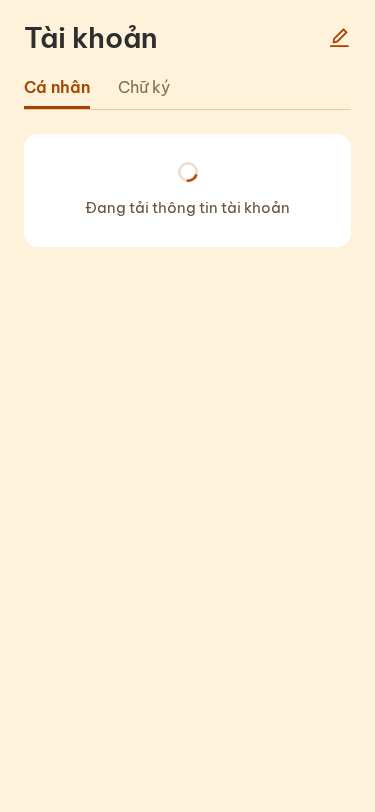
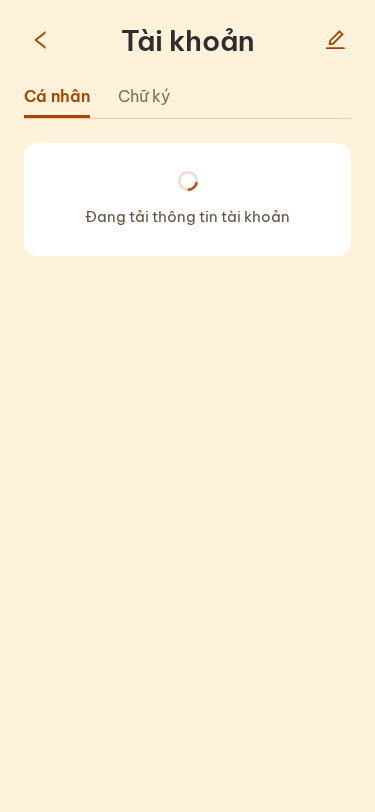
feat: add UC-04 header back navigation

Changed region(s): [[0.0587, 0.0924, 0.9387, 0.3387], [0.0587, 0.0308, 0.6747, 0.0616], [0.88, 0.0308, 0.9387, 0.0616]]

diff --git a/src/screens/AccountScreen.tsx b/src/screens/AccountScreen.tsx
@@ -21,7 +21,7 @@ function mockPayload(): AccountPayload {
   return { profile: { displayName: "Nguyễn Văn A", email: "nguyen.van.a.renter@example.com", phone: "0901234567", avatar: null }, rentals };
 }
 
-export function AccountScreen({ sessionKey, onEditProfile, onChangePassword, onSignOut }: { sessionKey: string; onEditProfile: () => void; onChangePassword: () => void; onSignOut: () => void }) {
+export function AccountScreen({ sessionKey, onBack, onEditProfile, onChangePassword, onSignOut }: { sessionKey: string; onBack: () => void; onEditProfile: () => void; onChangePassword: () => void; onSignOut: () => void }) {
   const [state, setState] = useState<AccountState>("loading");
   const [payload, setPayload] = useState<AccountPayload | null>(null);
   const scenario = accountReviewScenario();
@@ -42,7 +42,7 @@ export function AccountScreen({ sessionKey, onEditProfile, onChangePassword, onS
   const { width } = useWindowDimensions();
 
   return <SafeAreaView edges={["top", "left", "right"]} style={styles.safe}><ScrollView contentContainerStyle={styles.content}>
-    <View style={styles.header}><Text accessibilityRole="header" style={styles.title}>Tài khoản</Text><Pressable accessibilityRole="button" accessibilityLabel="Chỉnh sửa thông tin cá nhân" onPress={onEditProfile}><IconOutline color="#A84300" name="edit" size={24} /></Pressable></View>
+    <View style={styles.header}><HeaderButton accessibilityLabel="Quay lại" icon="left" onPress={onBack} /><Text accessibilityRole="header" style={styles.title}>Tài khoản</Text><HeaderButton accessibilityLabel="Chỉnh sửa thông tin cá nhân" icon="edit" onPress={onEditProfile} /></View>
     <View accessibilityRole="tablist" style={styles.tabs}><Text accessibilityRole="tab" accessibilityState={{ selected: true }} style={styles.activeTab}>Cá nhân</Text><Text accessibilityRole="tab" accessibilityState={{ selected: false }} style={styles.tab}>Chữ ký</Text></View>
     {state === "loading" ? <LoadingCard /> : null}
     {state === "error" ? <ErrorState timeout={scenario === "timeout"} onRetry={load} /> : null}
@@ -73,8 +73,9 @@ function RentalValue({ label, value }: { label: string; value: string }) { retur
 function LoadingCard() { return <View accessibilityLabel="Đang tải thông tin tài khoản" style={styles.stateCard}><ActivityIndicator color={colors.action} /><Text style={styles.stateText}>Đang tải thông tin tài khoản</Text></View>; }
 function ErrorState({ timeout, onRetry }: { timeout: boolean; onRetry: () => void }) { return <View accessibilityRole="alert" style={styles.stateCard}><Text style={styles.stateText}>{timeout ? "Kết nối mất nhiều thời gian hơn dự kiến." : "Chưa thể tải thông tin tài khoản."}</Text><Pressable accessibilityRole="button" onPress={onRetry} style={styles.retry}><Text style={styles.retryText}>Thử lại</Text></Pressable></View>; }
 function SessionState({ onSignOut }: { onSignOut: () => void }) { return <View accessibilityRole="alert" style={styles.stateCard}><Text style={styles.stateText}>Phiên đăng nhập đã hết hạn. Vui lòng đăng nhập lại.</Text><Pressable accessibilityRole="button" onPress={onSignOut} style={styles.retry}><Text style={styles.retryText}>Đăng nhập lại</Text></Pressable></View>; }
+function HeaderButton({ accessibilityLabel, icon, onPress }: { accessibilityLabel: string; icon: ComponentProps<typeof IconOutline>["name"]; onPress: () => void }) { return <Pressable accessibilityRole="button" accessibilityLabel={accessibilityLabel} onPress={onPress} style={({ pressed }) => [styles.headerButton, pressed && styles.headerButtonPressed]}><IconOutline accessible={false} importantForAccessibility="no" color="#A84300" name={icon} size={24} /></Pressable>; }
 function Action({ label, icon, onPress, danger = false }: { label: string; icon: ComponentProps<typeof IconOutline>["name"]; onPress: () => void; danger?: boolean }) { return <Pressable accessibilityRole="button" onPress={onPress} style={styles.action}><IconOutline accessible={false} importantForAccessibility="no" color={danger ? "#B33A3A" : "#A84300"} name={icon} size={21} /><Text style={[styles.actionText, danger && styles.danger]}>{label}</Text></Pressable>; }
 
 const styles = StyleSheet.create({
-  safe: { backgroundColor: "#FFF2DB", flex: 1 }, content: { flexGrow: 1, paddingBottom: 40 }, header: { alignItems: "center", flexDirection: "row", justifyContent: "space-between", paddingHorizontal: 24, paddingTop: 20 }, title: { color: "#2E2E2E", fontFamily: "BeVietnamPro_600SemiBold", fontSize: 28 }, tabs: { borderBottomColor: "#E6CDA8", borderBottomWidth: 1, flexDirection: "row", gap: 28, marginHorizontal: 24, marginTop: 22 }, tab: { color: "#856D51", fontFamily: "BeVietnamPro_400Regular", fontSize: 16, paddingBottom: 12 }, activeTab: { borderBottomColor: "#A84300", borderBottomWidth: 3, color: "#A84300", fontFamily: "BeVietnamPro_600SemiBold", fontSize: 16, paddingBottom: 9 }, profileCard: { alignItems: "center", backgroundColor: "#FFFFFF", borderRadius: radius.md, flexDirection: "row", marginHorizontal: 24, marginTop: 24, padding: 20 }, avatar: { alignItems: "center", backgroundColor: "#FFFFFF", borderColor: "#F0DDBF", borderRadius: 42, borderWidth: 1, height: 84, justifyContent: "center", overflow: "hidden", width: 84 }, profileText: { flex: 1, marginLeft: 16 }, name: { color: "#2E2E2E", fontFamily: "BeVietnamPro_600SemiBold", fontSize: 18 }, contact: { color: "#675440", fontFamily: "BeVietnamPro_400Regular", fontSize: 14, marginTop: 7 }, rentals: { marginTop: 26 }, sectionTitle: { color: "#2E2E2E", fontFamily: "BeVietnamPro_600SemiBold", fontSize: 18, marginBottom: 12, marginHorizontal: 24 }, rentalCard: { backgroundColor: "#FFFFFF", borderRadius: radius.md, marginHorizontal: 24, minHeight: 142, padding: 18 }, rentalRow: { flexDirection: "row", justifyContent: "space-between", marginVertical: 5 }, rentalLabel: { color: "#806C57", fontFamily: "BeVietnamPro_400Regular", fontSize: 14 }, rentalValue: { color: "#2E2E2E", flexShrink: 1, fontFamily: "BeVietnamPro_600SemiBold", fontSize: 14, textAlign: "right" }, indicator: { color: "#806C57", fontFamily: "BeVietnamPro_400Regular", fontSize: 13, marginTop: 10, textAlign: "center" }, actions: { backgroundColor: "#FFFFFF", borderRadius: radius.md, marginHorizontal: 24, marginTop: 26 }, action: { alignItems: "center", flexDirection: "row", gap: 12, minHeight: 52, paddingHorizontal: 18 }, actionText: { color: "#2E2E2E", fontFamily: "BeVietnamPro_600SemiBold", fontSize: 15 }, danger: { color: "#B33A3A" }, stateCard: { alignItems: "center", backgroundColor: "#FFFFFF", borderRadius: radius.md, gap: 14, margin: 24, padding: 28 }, stateText: { color: "#675440", fontFamily: "BeVietnamPro_400Regular", fontSize: 15, lineHeight: 23, textAlign: "center" }, retry: { backgroundColor: "#A84300", borderRadius: 8, paddingHorizontal: 18, paddingVertical: 10 }, retryText: { color: "#FFFFFF", fontFamily: "BeVietnamPro_600SemiBold" },
+  safe: { backgroundColor: "#FFF2DB", flex: 1 }, content: { flexGrow: 1, paddingBottom: 40 }, header: { alignItems: "center", flexDirection: "row", justifyContent: "space-between", paddingHorizontal: 16, paddingTop: 16 }, headerButton: { alignItems: "center", borderRadius: 24, height: 48, justifyContent: "center", width: 48 }, headerButtonPressed: { backgroundColor: "#F3DEC0", opacity: 0.75 }, title: { color: "#2E2E2E", fontFamily: "BeVietnamPro_600SemiBold", fontSize: 28 }, tabs: { borderBottomColor: "#E6CDA8", borderBottomWidth: 1, flexDirection: "row", gap: 28, marginHorizontal: 24, marginTop: 22 }, tab: { color: "#856D51", fontFamily: "BeVietnamPro_400Regular", fontSize: 16, paddingBottom: 12 }, activeTab: { borderBottomColor: "#A84300", borderBottomWidth: 3, color: "#A84300", fontFamily: "BeVietnamPro_600SemiBold", fontSize: 16, paddingBottom: 9 }, profileCard: { alignItems: "center", backgroundColor: "#FFFFFF", borderRadius: radius.md, flexDirection: "row", marginHorizontal: 24, marginTop: 24, padding: 20 }, avatar: { alignItems: "center", backgroundColor: "#FFFFFF", borderColor: "#F0DDBF", borderRadius: 42, borderWidth: 1, height: 84, justifyContent: "center", overflow: "hidden", width: 84 }, profileText: { flex: 1, marginLeft: 16 }, name: { color: "#2E2E2E", fontFamily: "BeVietnamPro_600SemiBold", fontSize: 18 }, contact: { color: "#675440", fontFamily: "BeVietnamPro_400Regular", fontSize: 14, marginTop: 7 }, rentals: { marginTop: 26 }, sectionTitle: { color: "#2E2E2E", fontFamily: "BeVietnamPro_600SemiBold", fontSize: 18, marginBottom: 12, marginHorizontal: 24 }, rentalCard: { backgroundColor: "#FFFFFF", borderRadius: radius.md, marginHorizontal: 24, minHeight: 142, padding: 18 }, rentalRow: { flexDirection: "row", justifyContent: "space-between", marginVertical: 5 }, rentalLabel: { color: "#806C57", fontFamily: "BeVietnamPro_400Regular", fontSize: 14 }, rentalValue: { color: "#2E2E2E", flexShrink: 1, fontFamily: "BeVietnamPro_600SemiBold", fontSize: 14, textAlign: "right" }, indicator: { color: "#806C57", fontFamily: "BeVietnamPro_400Regular", fontSize: 13, marginTop: 10, textAlign: "center" }, actions: { backgroundColor: "#FFFFFF", borderRadius: radius.md, marginHorizontal: 24, marginTop: 26 }, action: { alignItems: "center", flexDirection: "row", gap: 12, minHeight: 52, paddingHorizontal: 18 }, actionText: { color: "#2E2E2E", fontFamily: "BeVietnamPro_600SemiBold", fontSize: 15 }, danger: { color: "#B33A3A" }, stateCard: { alignItems: "center", backgroundColor: "#FFFFFF", borderRadius: radius.md, gap: 14, margin: 24, padding: 28 }, stateText: { color: "#675440", fontFamily: "BeVietnamPro_400Regular", fontSize: 15, lineHeight: 23, textAlign: "center" }, retry: { backgroundColor: "#A84300", borderRadius: 8, paddingHorizontal: 18, paddingVertical: 10 }, retryText: { color: "#FFFFFF", fontFamily: "BeVietnamPro_600SemiBold" },
 });

diff --git a/src/screens/__tests__/AccountScreen.test.tsx b/src/screens/__tests__/AccountScreen.test.tsx
@@ -16,25 +16,27 @@ describe("AccountScreen", () => {
 
   it("renders loading without subject data, then the zero-contract ready state and account actions", () => {
     process.env.EXPO_PUBLIC_ACCOUNT_REVIEW_SCENARIO = "zero";
-    const onEditProfile = jest.fn(); const onChangePassword = jest.fn(); const onSignOut = jest.fn();
+    const onBack = jest.fn(); const onEditProfile = jest.fn(); const onChangePassword = jest.fn(); const onSignOut = jest.fn();
     let renderer!: TestRenderer.ReactTestRenderer;
-    act(() => { renderer = TestRenderer.create(<AccountScreen onChangePassword={onChangePassword} onEditProfile={onEditProfile} onSignOut={onSignOut} sessionKey="renter-a" />); });
+    act(() => { renderer = TestRenderer.create(<AccountScreen onBack={onBack} onChangePassword={onChangePassword} onEditProfile={onEditProfile} onSignOut={onSignOut} sessionKey="renter-a" />); });
     expect(renderer.root.findByProps({ accessibilityLabel: "Đang tải thông tin tài khoản" })).toBeTruthy();
     expect(text(renderer.root)).not.toContain("Nguyễn Văn A");
     act(() => { jest.advanceTimersByTime(220); });
     expect(text(renderer.root)).toContain("Cá nhân"); expect(text(renderer.root)).toContain("Chữ ký");
     expect(text(renderer.root)).not.toContain("Đang thuê");
     press(renderer.root, "Đổi mật khẩu"); press(renderer.root, "Đăng xuất");
+    const back = renderer.root.findAllByType(Pressable).find((node) => node.props.accessibilityLabel === "Quay lại");
     const edit = renderer.root.findAllByType(Pressable).find((node) => node.props.accessibilityLabel === "Chỉnh sửa thông tin cá nhân");
+    act(() => back!.props.onPress());
     act(() => edit!.props.onPress());
-    expect(onEditProfile).toHaveBeenCalledTimes(1); expect(onChangePassword).toHaveBeenCalledTimes(1); expect(onSignOut).toHaveBeenCalledTimes(1);
+    expect(onBack).toHaveBeenCalledTimes(1); expect(onEditProfile).toHaveBeenCalledTimes(1); expect(onChangePassword).toHaveBeenCalledTimes(1); expect(onSignOut).toHaveBeenCalledTimes(1);
     act(() => renderer.unmount());
   });
 
   it("renders one contract without pagination", () => {
     process.env.EXPO_PUBLIC_ACCOUNT_REVIEW_SCENARIO = "one";
     let renderer!: TestRenderer.ReactTestRenderer;
-    act(() => { renderer = TestRenderer.create(<AccountScreen onChangePassword={jest.fn()} onEditProfile={jest.fn()} onSignOut={jest.fn()} sessionKey="renter-a" />); });
+    act(() => { renderer = TestRenderer.create(<AccountScreen onBack={jest.fn()} onChangePassword={jest.fn()} onEditProfile={jest.fn()} onSignOut={jest.fn()} sessionKey="renter-a" />); });
     act(() => { jest.advanceTimersByTime(220); });
     expect(text(renderer.root)).toContain("Đang thuê · 1"); expect(renderer.root.findAllByType(FlatList)).toHaveLength(0); expect(text(renderer.root)).not.toContain("1 / 1");
     act(() => renderer.unmount());
@@ -43,7 +45,7 @@ describe("AccountScreen", () => {
   it("renders sorted multi-contract carousel with accessible actual page count", () => {
     process.env.EXPO_PUBLIC_ACCOUNT_REVIEW_SCENARIO = "multiple";
     let renderer!: TestRenderer.ReactTestRenderer;
-    act(() => { renderer = TestRenderer.create(<AccountScreen onChangePassword={jest.fn()} onEditProfile={jest.fn()} onSignOut={jest.fn()} sessionKey="renter-a" />); });
+    act(() => { renderer = TestRenderer.create(<AccountScreen onBack={jest.fn()} onChangePassword={jest.fn()} onEditProfile={jest.fn()} onSignOut={jest.fn()} sessionKey="renter-a" />); });
     act(() => { jest.advanceTimersByTime(220); });
     expect(renderer.root.findByProps({ accessibilityLabel: "Đang thuê 3 hợp đồng" })).toBeTruthy(); expect(renderer.root.findByProps({ accessibilityLabel: "Hợp đồng 1 trên 3" })).toBeTruthy();
     const carousel = renderer.root.findByType(FlatList); act(() => carousel.props.onScroll({ nativeEvent: { contentOffset: { x: 360 }, layoutMeasurement: { width: 360 } } }));
@@ -54,12 +56,12 @@ describe("AccountScreen", () => {
   it("keeps PII hidden in error and session-expired states", () => {
     process.env.EXPO_PUBLIC_ACCOUNT_REVIEW_SCENARIO = "error";
     let renderer!: TestRenderer.ReactTestRenderer;
-    act(() => { renderer = TestRenderer.create(<AccountScreen onChangePassword={jest.fn()} onEditProfile={jest.fn()} onSignOut={jest.fn()} sessionKey="renter-a" />); });
+    act(() => { renderer = TestRenderer.create(<AccountScreen onBack={jest.fn()} onChangePassword={jest.fn()} onEditProfile={jest.fn()} onSignOut={jest.fn()} sessionKey="renter-a" />); });
     act(() => { jest.advanceTimersByTime(220); });
     expect(text(renderer.root)).toContain("Chưa thể tải thông tin tài khoản."); expect(text(renderer.root)).not.toContain("Nguyễn Văn A");
     act(() => renderer.unmount());
     process.env.EXPO_PUBLIC_ACCOUNT_REVIEW_SCENARIO = "session";
-    act(() => { renderer = TestRenderer.create(<AccountScreen onChangePassword={jest.fn()} onEditProfile={jest.fn()} onSignOut={jest.fn()} sessionKey="renter-b" />); });
+    act(() => { renderer = TestRenderer.create(<AccountScreen onBack={jest.fn()} onChangePassword={jest.fn()} onEditProfile={jest.fn()} onSignOut={jest.fn()} sessionKey="renter-b" />); });
     act(() => { jest.advanceTimersByTime(220); });
     expect(text(renderer.root)).toContain("Phiên đăng nhập đã hết hạn. Vui lòng đăng nhập lại."); expect(text(renderer.root)).not.toContain("Nguyễn Văn A");
     act(() => renderer.unmount());

diff --git a/src/navigation/RootNavigator.tsx b/src/navigation/RootNavigator.tsx
@@ -23,9 +23,9 @@ const linking = {
 
 function AuthenticatedHome({ navigation }: { navigation: { navigate: (screen: "Account") => void } & { navigate: (screen: "Destination", params: { action: Exclude<HomeAction, "account"> }) => void } }) { const { token } = useAuth(); return <HomeScreen sessionKey={token ?? ""} onNavigate={(action) => action === "account" ? navigation.navigate("Account") : navigation.navigate("Destination", { action })} />; }
 
-function AuthenticatedAccount({ navigation }: { navigation: { navigate: (screen: "Destination", params: { action: "edit-profile" | "change-password" }) => void } }) {
+function AuthenticatedAccount({ navigation }: { navigation: { canGoBack: () => boolean; goBack: () => void; navigate: (screen: "Destination", params: { action: "edit-profile" | "change-password" }) => void; reset: (state: { index: number; routes: { name: "Home" }[] }) => void } }) {
   const { token, signOut } = useAuth();
-  return <AccountScreen sessionKey={token ?? ""} onChangePassword={() => navigation.navigate("Destination", { action: "change-password" })} onEditProfile={() => navigation.navigate("Destination", { action: "edit-profile" })} onSignOut={() => { void signOut(); }} />;
+  return <AccountScreen sessionKey={token ?? ""} onBack={() => navigation.canGoBack() ? navigation.goBack() : navigation.reset({ index: 0, routes: [{ name: "Home" }] })} onChangePassword={() => navigation.navigate("Destination", { action: "change-password" })} onEditProfile={() => navigation.navigate("Destination", { action: "edit-profile" })} onSignOut={() => { void signOut(); }} />;
 }
 
 function DestinationScreen({ navigation, route }: { navigation: { goBack: () => void }; route: { params: RootStackParamList["Destination"] } }) {

diff --git a/tests/web/account-visual.spec.ts b/tests/web/account-visual.spec.ts
@@ -16,6 +16,15 @@ test("the Home account action opens UC-04 instead of a placeholder", async ({ pa
   await expect(page).toHaveURL(/\/account$/);
   await expect(page.getByRole("tab", { name: "Cá nhân" })).toBeVisible();
   await expect(page.getByRole("tab", { name: "Chữ ký" })).toBeVisible();
+  await page.getByRole("button", { name: "Quay lại" }).click();
+  await expect(page).toHaveURL(/\/smart-tro\/\?home=single$/);
+});
+
+test("the Account back control falls back to Home for direct entry", async ({ page }) => {
+  await openAccount(page, "one", { width: 375, height: 812 });
+  await page.getByRole("button", { name: "Quay lại" }).click();
+  await expect(page).toHaveURL(/\/smart-tro\/$/);
+  await expect(page.getByText("Xin chào")).toBeVisible();
 });
 
 for (const scenario of scenarios) {
